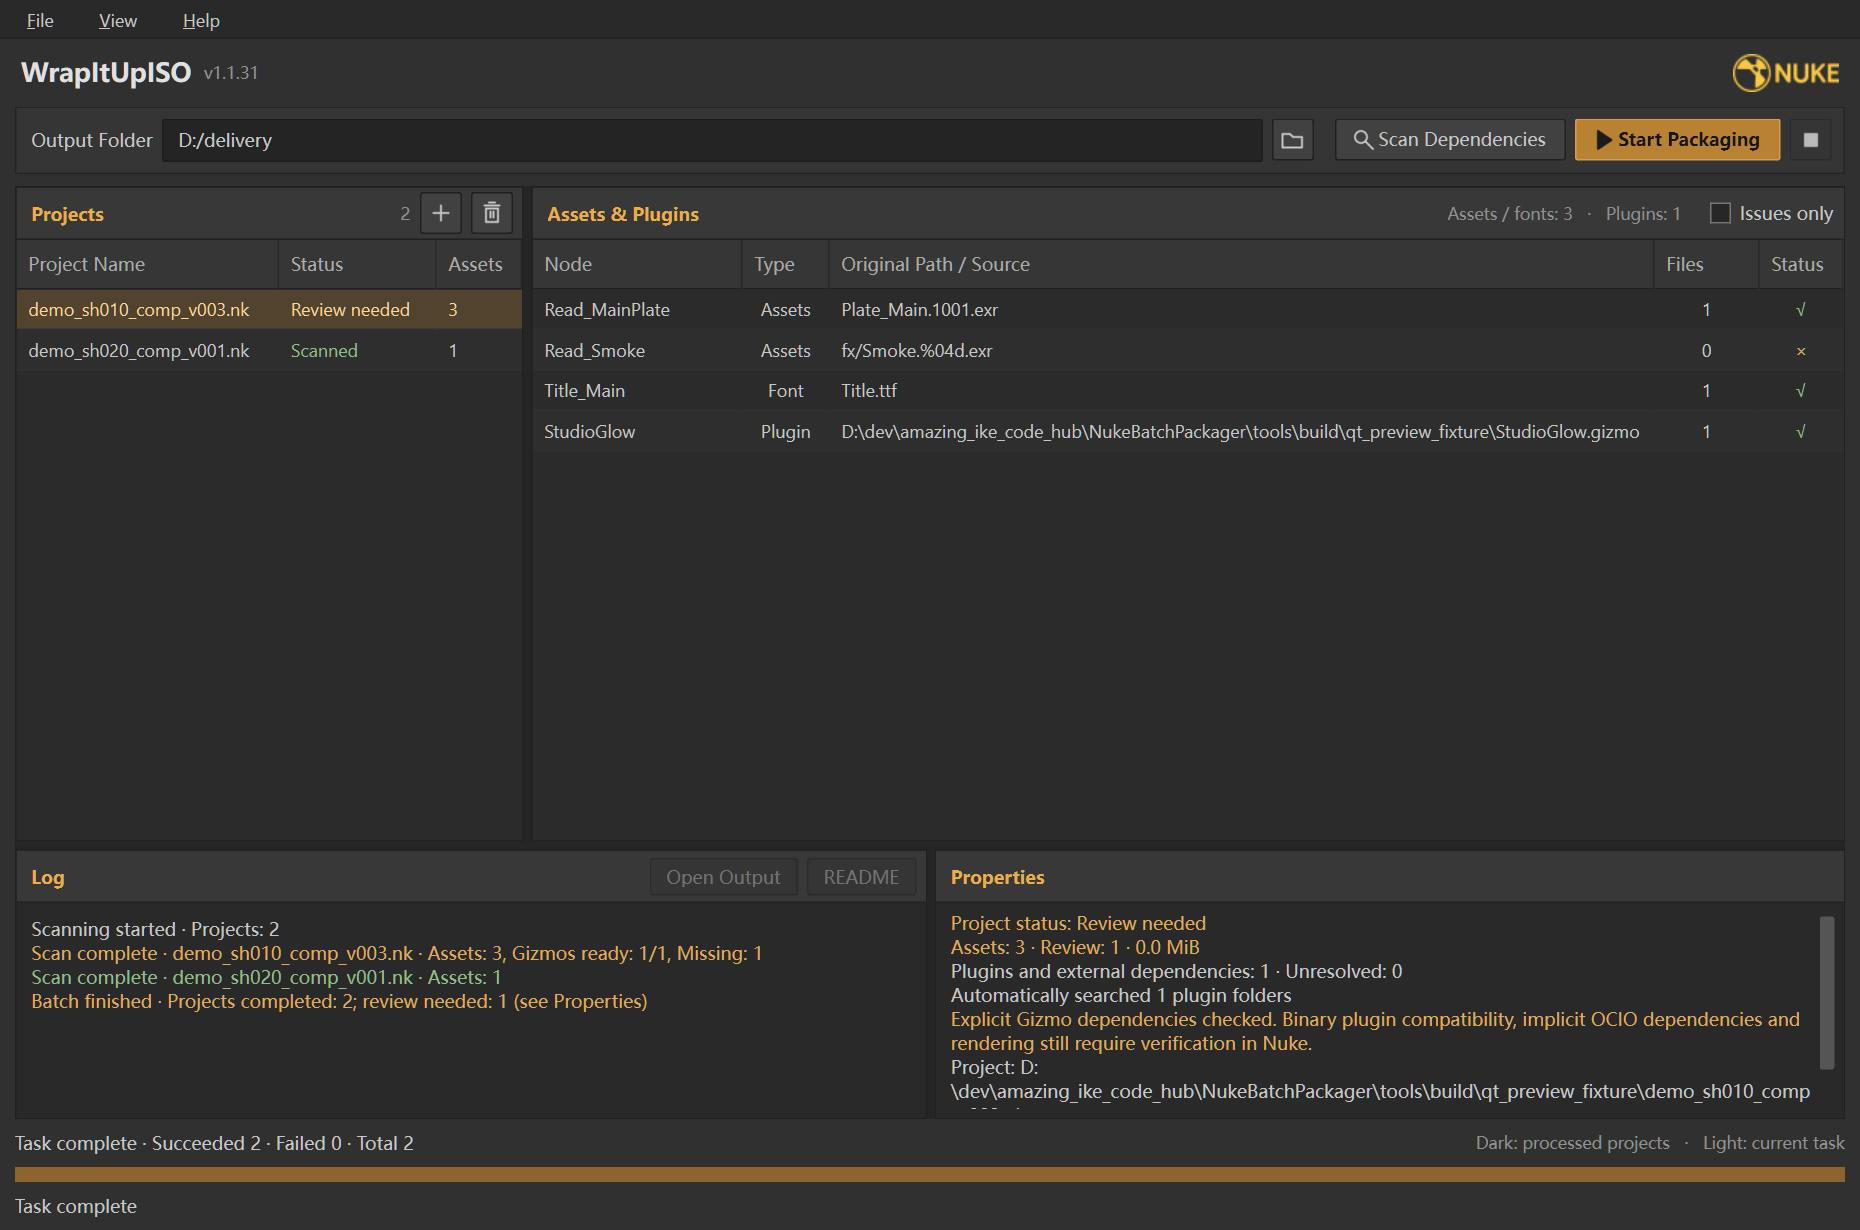
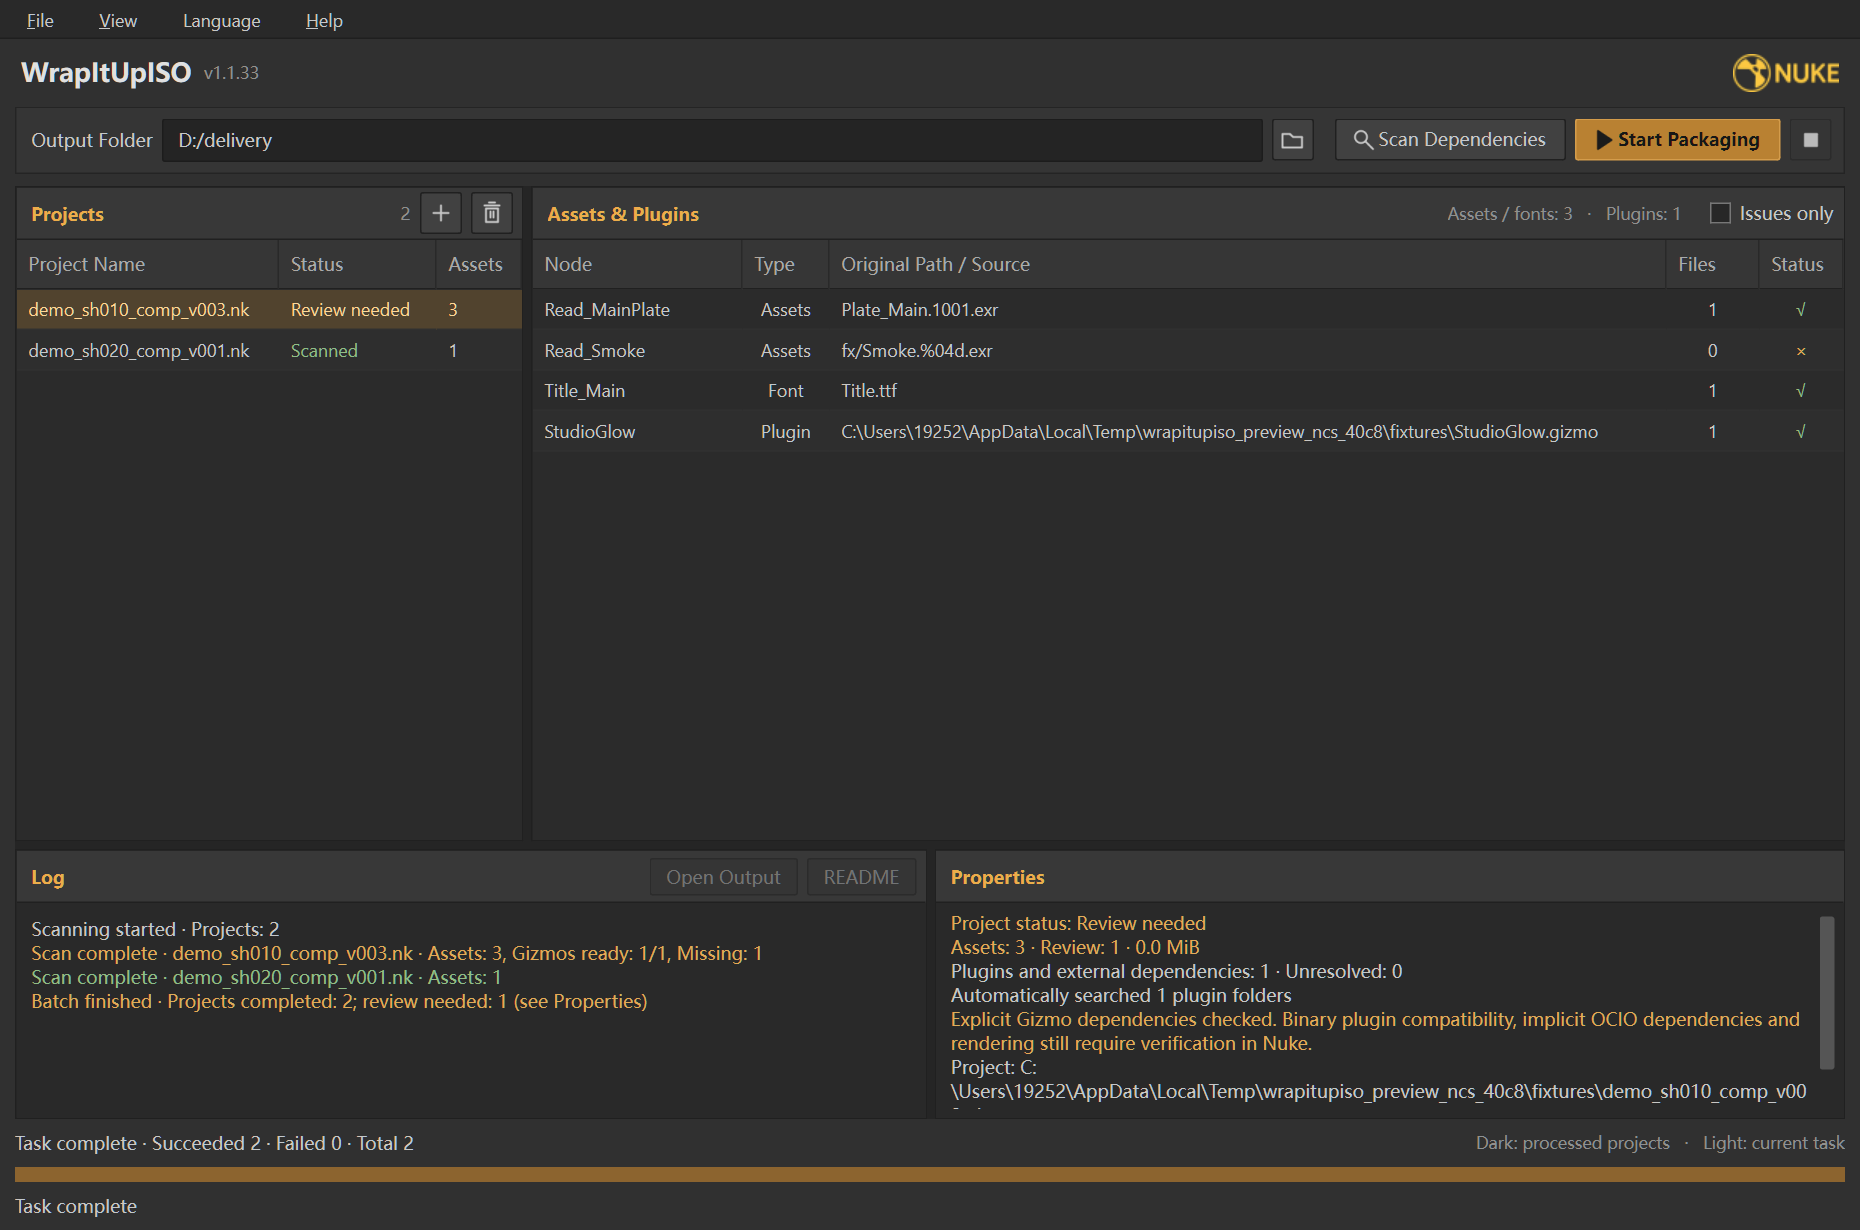
更新使用说明与界面预览并升级至 1.1.35
同步便携设置迁移、顶栏语言菜单及后台保存说明，更新三语界面预览和单文件发布版名称。202 项测试通过，覆盖率 94.48%；已验证单文件 EXE 独立运行及重启后的语言恢复。

diff --git a/docs/reference.md b/docs/reference.md
@@ -6,7 +6,7 @@
 
 ## Windows 启动
 
-1. 双击 `tools/dist/WrapItUpISO 1.1.32.exe`。这是单文件发布版，已内置 Python 运行时、Qt6 和全部界面依赖，目标电脑无需安装 Python 或 Python Launcher。
+1. 双击 `tools/dist/WrapItUpISO 1.1.35.exe`。这是单文件发布版，已内置 Python 运行时、Qt6 和全部界面依赖，目标电脑无需安装 Python 或 Python Launcher。
 2. 点击左侧工程列表上方的 `+`，打开 Windows 原生文件选择器。支持 Ctrl / Shift 多选文件夹、`.nk` 工程，也可混选，点击“添加选中项”加入列表。双击文件夹进入目录；仅选择 `.nk` 时也可点击“打开”。文件夹会递归查找 `.nk`，没有工程时在日志提示，重复工程不会重复添加。仍支持直接拖入文件或文件夹。
 3. 点击工具栏的放大镜图标“扫描素材与插件”。左侧选择工程，右侧分别列出素材和 Gizmo / 插件条目，点击条目查看来源与问题。左右分栏宽度可拖动调整。
 4. 将一个文件夹拖到“输出目录”输入框，自动使用该路径；也可点击文件夹图标选择目录。点击三角形图标“开始打包”。拖到其他区域的文件夹仍用于添加工程。
@@ -19,7 +19,7 @@
 
 重新扫描、取消或再次打包失败时，仍可打开该工程上一次成功打包的目录和 README；下一次成功打包后入口更新到新目录。移除工程或清空列表时清除对应记录。
 
-分发时只需复制 `WrapItUpISO 1.1.32.exe`。程序启动时会将内置依赖解压到系统临时目录，启动可能需要几秒钟。
+分发时只需复制 `WrapItUpISO 1.1.35.exe`。程序启动时会将内置依赖解压到系统临时目录，启动可能需要几秒钟。
 
 扫描和复制在后台线程执行，窗口保持可操作。连续双色进度条中，深色代表已处理工程，浅色紧接深色，代表当前工程在当前阶段的任务进度；不绘制工程分隔线，进度变化采用短暂平滑过渡。上方保留工程数量，下方显示任务数、百分比和正在处理的文件；复制阶段按文件数计任务，大文件内部仍按复制量平滑更新。任务数量尚未确定时，浅色部分贴着深色边缘缓慢伸缩。点击“取消”会清理当前未完成工程，保留已完成结果。
 
@@ -75,17 +75,19 @@ python tools/assets/prepare_app_icons.py
 python -m PyInstaller --workpath tools/build --distpath tools/dist tools/WrapItUpISO.spec
 ```
 
-生成的程序为 `tools/dist/WrapItUpISO 1.1.32.exe`，文件名自动采用 `version.json` 中的名称与版本，无需附带 `_internal` 文件夹。
+生成的程序为 `tools/dist/WrapItUpISO 1.1.35.exe`，文件名自动采用 `version.json` 中的名称与版本，无需附带 `_internal` 文件夹。
 窗口、任务栏和 EXE 使用 `wrapitupiso/resources/icons/nuke logo.png` 转换的圆形图标；工具栏使用同目录中的横版 Logo。图标资源随 EXE 内置，替换源图片后运行 `prepare_app_icons.py` 再构建即可更新。
 界面使用 Qt6 / PySide6，文件拖放由 Qt 原生处理；EXE 内置 Qt 库与 Windows 平台插件，不需要额外安装 Qt。
 
 ## 语言与便携设置
 
-一个 EXE 内置简体中文、English、日本語。在“视图 → 语言 / Language”切换，立即更新菜单、按钮、表头、已扫描结果、属性和历史日志；工程、扫描缓存与选择状态保留。任务进行时暂时禁用语言切换。首次启动跟随系统语言，其他语言默认英文，之后使用保存的选择。
+一个 EXE 内置简体中文、English、日本語。在顶部菜单栏的“语言 / Language”切换，立即更新菜单、按钮、表头、已扫描结果、属性和历史日志；复用依赖列表行，保留工程、扫描缓存、选择和滚动位置，历史日志批量排版。重复选择当前语言不会刷新。任务进行时暂时禁用语言切换。首次启动跟随系统语言，其他语言默认英文，之后使用保存的选择。
 
 应用自有文案及 Windows 文件选择器的自定义提示跟随选择的语言；原生系统按钮和系统错误可能仍使用 Windows 的语言。文件路径、节点名、插件名、品牌和程序标语保持原样。交付 `readme.md` 使用本次打包选择的语言；`report.json` 保留既有字段、状态值和中文诊断以兼容旧版，新增 `language` 字段记录交付语言。所有交付文件仍使用既定的小写命名。
 
-启动时自动创建并读取 **程序所在目录 / `settings/wrapitupiso_settings.json`**。使用 EXE 时以 EXE 所在目录为准，源码运行时以项目根目录为准，不依赖启动时的工作目录，也不写入 PyInstaller 的临时解压目录。
+启动时自动创建并读取 **程序同级的 `wrapitupiso_settings.json`**，不再新建设置文件夹。使用 EXE 时以 EXE 所在目录为准，源码运行时以项目根目录为准，不依赖启动时的工作目录，也不写入 PyInstaller 的临时解压目录。
+
+升级时，如果同级设置文件尚不存在，会自动读取旧的 `settings/wrapitupiso_settings.json` 并保存到新位置，旧文件保留作备份。新旧文件同时存在时以同级文件为准。
 
 设置内容包括语言、窗口大小与位置、最大化状态、三处分栏比例、表格列宽、“只看问题”筛选、输出目录和上次添加工程的目录。项目列表和扫描结果不写入设置文件。示例：
 
@@ -107,7 +109,7 @@ python -m PyInstaller --workpath tools/build --distpath tools/dist tools/WrapItU
 }
 ```
 
-设置更改后自动保存，关闭时再次保存。“帮助 → 打开设置目录”可定位文件；手动编辑前请先关闭程序，避免被当前窗口状态覆盖。窗口移到已断开的显示器外时，启动会把它恢复到可见屏幕。无效字段使用默认值；损坏的 JSON 会备份为 `wrapitupiso_settings.invalid-时间戳.json` 后重建。无法写入时在日志提示，本次仍可运行，但不能记住更改。未知的较新设置格式保持原文件，不覆盖。
+设置更改后等待约 400 毫秒，合并连续修改并在独立线程中保存，磁盘落盘不占用界面线程。设置按顺序原子写入，避免旧状态覆盖新状态；扫描和打包期间延后写入。如果开始扫描时已有写入，扫描线程等待它完成，界面仍可响应。关闭程序时等待最后的设置保存完成。“帮助 → 打开设置目录”可定位文件；手动编辑前请先关闭程序，避免被当前窗口状态覆盖。窗口移到已断开的显示器外时，启动会把它恢复到可见屏幕。无效字段使用默认值；损坏的 JSON 会备份为 `wrapitupiso_settings.invalid-时间戳.json` 后重建。无法写入时在日志提示，本次仍可运行，但不能记住更改。未知的较新设置格式保持原文件，不覆盖。
 
 翻译统一保存在 `wrapitupiso/resources/locales/translations.json`，结构为 `固定键 → zh-CN / en / ja → 文案`。动态值使用 `{count}`、`{filename}` 等命名占位符，各语言的占位符必须一致。文件路径等用户数据作为参数传入，不会被当作翻译键。构建时检查字典完整性，并把字典嵌入 EXE；修改源码字典后需重新构建发布版。
 
@@ -186,7 +188,7 @@ NukeBatchPackager/
 │   ├── dist/                   当前单文件 EXE
 │   ├── reports/                本地验证结果
 │   └── archive/                历史构建和实验文件
-└── settings/                   本机设置，首次启动自动创建
+└── wrapitupiso_settings.json    本机设置，首次启动自动创建
 ```
 
 `engine/` 不依赖 Qt：`core.py` 负责工程解析、素材收集与路径重写；`gizmo.py` 处理插件索引与依赖；`plugin_paths.py` 静态发现插件目录；`media_scan.py`、`font_scan.py`、`callback_scan.py`、`script_scan.py` 分别检查素材、字体、回调与 Tcl 命令；`scan_cache.py` 复用扫描结果；`project_discovery.py` 搜索工程；`delivery.py` 和 `package_readme.py` 生成交付内容。
